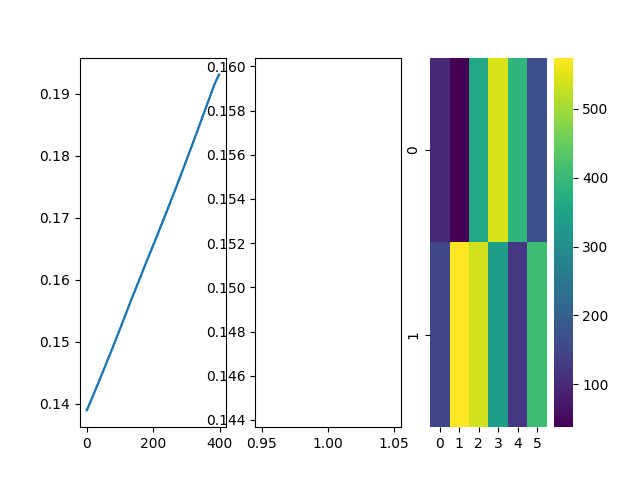
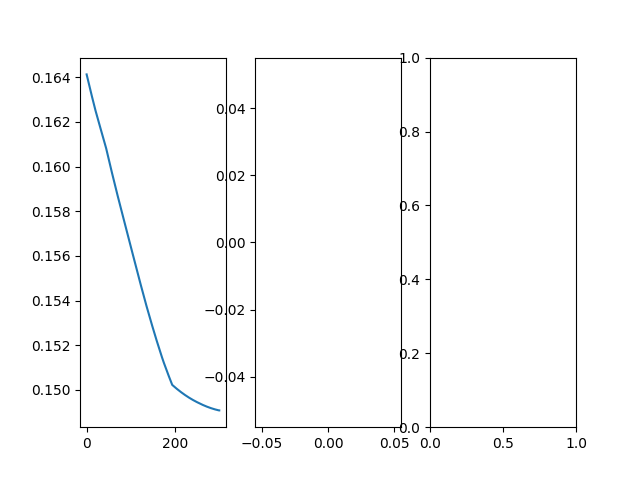
Changed usage to gymnasium style usage, example.py created to demonstrate this usage.

diff --git a/SNRLEnvironment/training.py b/SNRLEnvironment/training.py
@@ -13,7 +13,7 @@ import matplotlib.animation as anim
 from matplotlib.animation import FFMpegWriter
 import seaborn as sb
 from Env1 import train_step, lossfn, act
-from agentneuralnetwork import AgentNeuralNetwork
+
 from flax import nnx as nnx
 import optax
 import os 
@@ -54,112 +54,83 @@ def createimages(state, window, collision, statobjs):
 def drawframes(envstates,window):
     frames = jax.vmap(createimages,in_axes=(0,None,None))(envstates, window)# shape = (envnum, ...)
     return frames
-j = 0
-draw = True
-episodenum = 1
-avglosslist = []
-losses= []
-actionlist = []
-allanims=[]
-featurenum = 2 * (objnum+2)
-ann = AgentNeuralNetwork(rngs = nnx.Rngs(0),n_features= featurenum )
-optimizer = nnx.Optimizer(ann, tx=optax.adam(learning_rate=0.08),wrt=nnx.Param)
-agent = Agent(policy=ann)
-firstenvcol=[]
-collision = 0
-#fig1 = plt.figure()
 
-while j < episodenum:
-    i = 0
-    seed = 8000 * (j + 1)
-    
-    envstates, statobjs = create_envbatch(seed, envnum,limits,objnum,10,3)
-    print("statobjs: ",statobjs)
-    print("Shape at batching is: ", jnp.array(statobjs).shape,statobjs[0])
+#fig1 = plt.figure()
+def envinit(objnum, objrad, policy, optimizer, seed):
+    #init
+    seed = seed*seed
+    featurenum = 2 * (objnum+2)
+    envstates, statobjs = create_envbatch(seed, envnum,limits,objnum,objrad,3)
+    #init policy
+    policy = policy(rngs = nnx.Rngs(0), n_features= featurenum)
+    optimizer = nnx.Optimizer(policy, tx=optimizer,wrt=nnx.Param)
+    #sharding
     splitstates = jnp.split(envstates, len(devices))
     devind = 0
     for batch in splitstates:
-        #envstates = jax.device_put(envstates, devices[devind])
+        envstates = jax.device_put(envstates, devices[devind])
         #should append to envstates really?
         print(batch.shape)
         #shape = envstates.shape
         #jax.debug.visualize_sharding(envstates,shape)
         devind +=1
-    #jax.debug.visualize_array_sharding(envstates)
+        #jax.debug.visualize_array_sharding(envstates)
+
+    window = drawwindow(600,600)
+
     goalinitstates = jax.vmap(lambda stt: stt[0])(envstates)
     agentinitstates = jax.vmap(lambda stt: stt[1])(envstates)
-    while i < episodelength:
-        window = drawwindow(windowheight,windowwidth)
-        #loss,actions = train_step(agent.policy,envstates,optimizer,collision)
-        actions = act(agent.policy,envstates)
-        envstates, collision = runstep(envstates,actions)
-        loss, outputs = lossfn(agent.policy,envstates)
-        losses.append(loss)
-        #if collision[0] != 0:
-        #    print("collision: ", collision)
-        print("loss: ", loss)
-        losses.append(loss)
-        if draw and j == episodenum -1:
-            #frames = drawframes(envstates,window)
-            firstenvcol.append(collision[0])
-            print("shape is ",jnp.array(statobjs).shape)# should be 3,2 but is 30
-            print(statobjs[3])
-            env1frame = createimages(envstates[3],window,collision[3],statobjs[3])
-            env1frames.append(env1frame)
-        if i % 50 == 0:
-            loss, actions = train_step(agent.policy,envstates,optimizer,collision)
-        i += 1
-    #allanims.append(env1frames)
-    
-    j += 1
-env1img = []
-j=1
-@jax.jit
+    return policy, optimizer, envstates,statobjs, window
+def envstep(episodeindex,envstates,statobjs, policy, losses):
+    actions = act(policy,envstates)
+    envstates, collision = runstep(envstates,actions)
+    loss, outputs = lossfn(policy,envstates)
+    losses.append(loss)
+    return envstates, statobjs, loss, collision, losses
+def drawenv(envstates, statobjs, collision, window, env1frames):
+    #frames = drawframes(envstates,window)
+    #firstenvcol.append(collision[0])
+    print("shape is ",jnp.array(statobjs).shape)# should be 3,2 but is 30
+    print(statobjs[3])
+    env1frame = createimages(envstates[3],window,collision[3],statobjs[3])
+    env1frames.append(env1frame)
 def f(state,agentstate):
     objx = jnp.array(state[0])
     objy = jnp.array(state[1])
     objrad = jnp.array(state[2])
     return jnp.where(((objx +  objrad < agentstate[0] - agentstate[2]) & (objx - objrad < agentstate[0] - agentstate[2]))
             |((objy -  objrad > agentstate[1] + agentstate[2]) & (objy +  objrad > agentstate[0] - agentstate[2])),jnp.array([objx,objy,objrad]),)
+def animate(frames):
+    j = 0
+    for frame in frames:  
+        image = plt.imshow(frame,animated=True)
+        env1img.append([image])
+        print("Drawing frame ", j)
+        j+=1
+    #write env1img to a .txt or .json or something and then have a separate script that renders that into anims with the code below?
+    ani = anim.ArtistAnimation(fig, env1img, interval=1, repeat_delay=1000)
+    ani.save("animationenv.gif", writer='pillow', fps=30)
 
-for frame in env1frames:
-    
-    image = plt.imshow(frame,animated=True)
-    #stops it running out of memory
-    env1img.append([image])
-    #    print("i is: ", i)
-    #    i += 1
-    print("j is: ", j)
-
-    #fig = plt.figure()
-    j+=1
-#write env1img to a .txt or .json or something and then have a separate script that renders that into anims with the code below?
-
-ani = anim.ArtistAnimation(fig, env1img, interval=1, repeat_delay=1000)
-ani.save("animationenv.gif", writer='pillow', fps=30)
-#if draw:
-#    ani = anim.ArtistAnimation(fig, env1img, interval=2, repeat_delay=1000)
-#    ani.save('animation.gif', writer='pillow', fps=30)
-    #plt.show()
-    #ani.save('animation.gif', writer='pillow', fps=30)
-fig, plots = plt.subplots(1,3)
-plots[0].plot(jnp.arange(0,len(losses)),losses)  
-means=[]
-i=0
-while i < len(losses):
-    mylossthing = losses[i-episodelength:i]
-    mylossthing = jnp.array(mylossthing)
-    mylossthing = jnp.mean(mylossthing)
-    means.append(mylossthing)
-    i+=episodelength
-plots[1].plot(jnp.arange(0,len(means)),means)
+def drawplots(losses,episodelength):
+    fig, plots = plt.subplots(1,3)
+    plots[0].plot(jnp.arange(0,len(losses)),losses)  
+    means=[]
+    i=0
+    while i < len(losses):
+        lossgraph = losses[i-episodelength:i]
+        lossgraph = jnp.array(lossgraph)
+        lossgraph = jnp.mean(lossgraph)
+        means.append(lossgraph)
+        i+=episodelength
+    plots[1].plot(jnp.arange(0,len(means)),means)
+    plt.savefig("plots.png")
 
 
 
-((xmin,xmax), (ymin,ymax), density) = jax.vmap(lambda stt: ((stt[0]-rad,stt[0]+rad),(stt[1]-rad,stt[1]+rad),1))(goalinitstates)
-xs, ys = (xmin,xmax),(ymin,ymax)
-goalinitstates = jnp.array(jax.vmap(lambda sts:[sts[0].astype(int),sts[1].astype(int)])(goalinitstates))
-heatmap = sb.heatmap(goalinitstates,annot=False,cmap='viridis')
-plots[2] = heatmap
-plt.savefig("plots.png")
-print(firstenvcol)
+    #((xmin,xmax), (ymin,ymax), density) = jax.vmap(lambda stt: ((stt[0]-rad,stt[0]+rad),(stt[1]-rad,stt[1]+rad),1))(goalinitstates)
+    #xs, ys = (xmin,xmax),(ymin,ymax)
+    #goalinitstates = jnp.array(jax.vmap(lambda sts:[sts[0].astype(int),sts[1].astype(int)])(goalinitstates))
+    #heatmap = sb.heatmap(goalinitstates,annot=False,cmap='viridis')
+    #plots[2] = heatmap
+    #plt.savefig("plots.png")
+    #print(firstenvcol)

diff --git a/SNRLEnvironment/example.py b/SNRLEnvironment/example.py
@@ -1,0 +1,34 @@
+import training
+from training import envstep,envinit,drawenv,animate,drawplots
+from Env1 import train_step
+from flax import nnx as nnx
+import optax
+#import your own agent implementation
+from agentneuralnetwork import AgentNeuralNetwork
+
+optimizer = optax.adam(learning_rate=0.08)
+env1frames = []
+losses = []
+episodelength = 300
+
+
+policy, optimizer, envstates,statobjs, window = envinit(10,10,AgentNeuralNetwork,optimizer, 8020)
+
+
+#for multiple episodes use a nested loop
+for i in range(episodelength):
+    envstates, statobjs, loss, collision, losses = envstep(i,envstates,statobjs,policy,losses)
+    drawenv(envstates,statobjs,collision,window,env1frames)
+    loss, outputs = train_step(policy, envstates, optimizer, collision)
+
+animate(env1frames)
+drawplots(losses, episodelength)
+
+
+#example of multi-episode training run:
+#for j in range(3):
+#    policy, optimizer, envstates,statobjs = envinit(10,10,AgentNeuralNetwork,optimizer)
+#    for i in range(300):
+#        envstates, statobjs, loss, collision, window = envstep(i,envstates,statobjs,policy)
+#        train_step()
+#    
